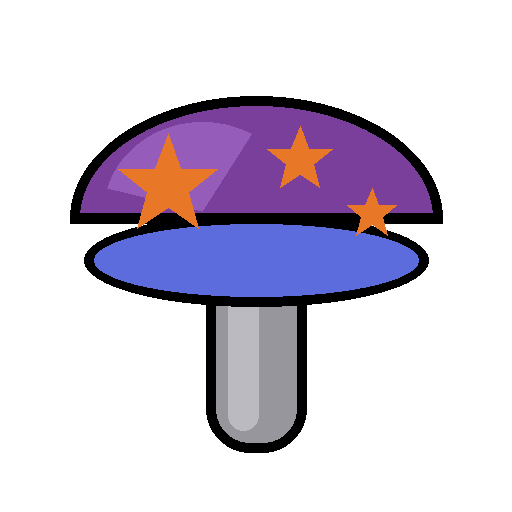
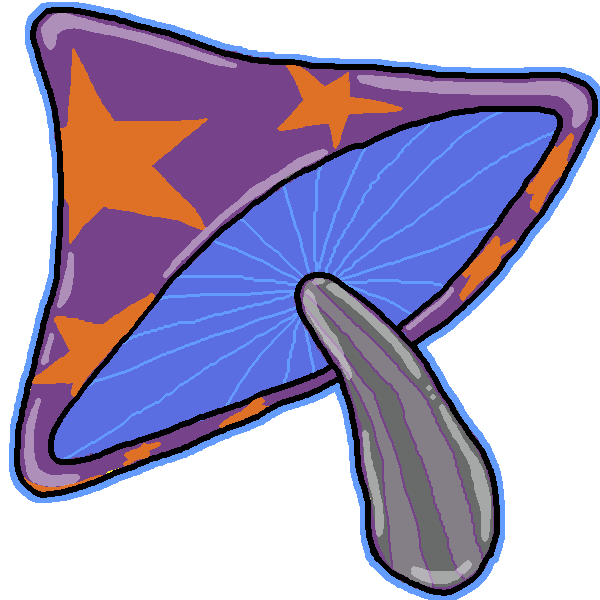
Финальные картинки шляпы и гриба
Шляпа мага заменена целиком, гриб — вместо заглушки. Заглушку и её генератор
убрал.

Гриб подрос с 58 до 68 пикселей. Рисунок ЛЕЖИТ ПО ДИАГОНАЛИ, а размер меряется
по непрозрачной рамке — то есть по диагонали, внутри которой сам гриб заметно
меньше. На кадре в потоке при 58 он терялся среди предметов, хотя по числу был
с ними наравне. Полоса 86 пикселей, хитбокс остался 56 — с чужой линии не бьёт.

В экспорте гриба голубое свечение по контуру УПИРАЕТСЯ В КРАЙ КАДРА со всех
четырёх сторон, то есть срезано. На 68 пикселях это волосок, но при крупном
показе (каталог, плашка достижения) край будет виден. Записал это в шапку
mushroom_item.gd: лечится перезаливкой с парой пикселей полей, не кодом.

dev/shot_mushroom.gd — кадры гриба в потоке и с включённой порчей. Снимать
обязательно: эффект живёт в шейдере, а headless шейдеров не выполняет и
промолчит, если на экране чернота.

Проверено кадром отдельно: слой порчи НЕ трогает героя — при инверсии фона его
голова остаётся (34, 177, 76), чистый зелёный.

Claude-Session: https://claude.ai/code/session_01UVhC4Zr4sRF8qfsdApPrub

diff --git a/Канбан.md b/Канбан.md
@@ -18,12 +18,12 @@ kanban-plugin: board
 
 ## Тестируется
 
-- [ ] Новый предмет ГРИБ и переделанный компас (зеркало вместо реверса) — ждут финальных картинок: гриб на заглушке, шляпа мага не заменена
 
 
 
 ## Готово
 
+- [ ] Новый предмет ГРИБ и переделанный компас: зеркало мира вместо реверса управления
 - [ ] Достижения: счётчики, хуки по всей игре, экран на живых данных, зеркало в Game Center и скрипт заливки в App Store Connect
 - [ ] Занавес «НЕМНОГО ПОЗДНЕЕ…» между интро и уровнем 2-3, чтобы фон не подменялся под игроком
 - [ ] Сфера резиста: вид портала из BinbunVFX перенесён в 2D-шейдер, синяя у резиста и красная у паучьей реакции
